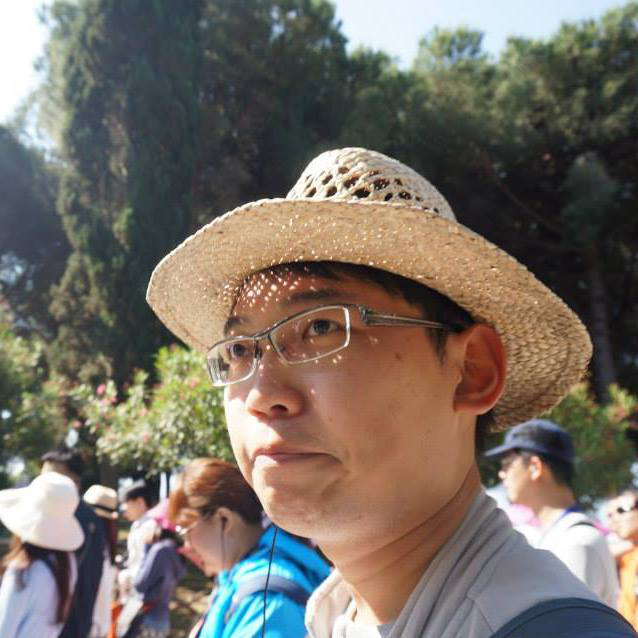
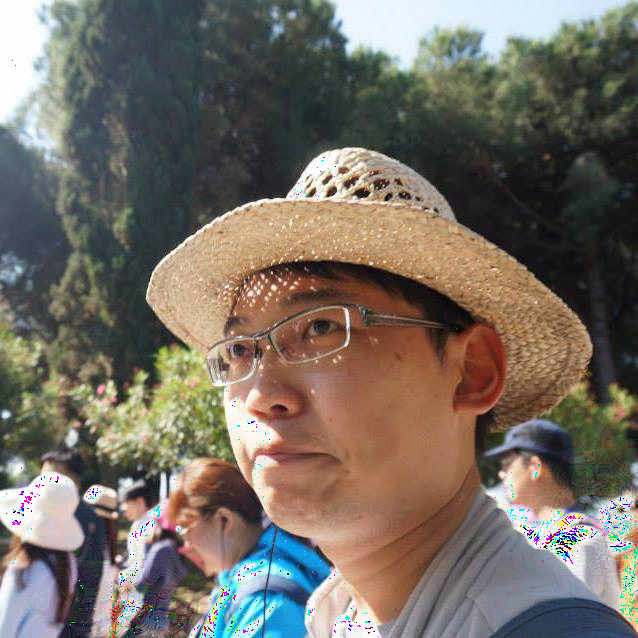
5

diff --git a/GA001.py b/GA001.py
@@ -18,7 +18,10 @@ import torchvision.transforms as T
 from torchvision import models
 
 
-lr = 1e-1
+lr = 1e0
+epoch = 10000000
+batch = 100
+
 device = 'cuda:0'
 
 _GRAY = (218, 227, 218)
@@ -76,14 +79,21 @@ def show_pic(image,boxs,labels,n=0):
         display_image = vis_class(display_image, bbox, _COCO_INSTANCE_CATEGORY_NAMES[labels[i]])
     
     plt.figure(figsize=(10, 10),dpi=200)
-    plt.imshow(display_image)
     plt.xticks([])
     plt.yticks([])
-    plt.savefig(f'./results/test{n}.png', bbox_inches="tight")
+    plt.imsave(f'./results/test{n}.png',display_image)
+
+    # plt.savefig(f'./results/test{n}.png', bbox_inches="tight")
     
 transform = T.ToTensor()
-image_path = './results/AA_Resnet.png'
-image = Image.open(image_path).convert("RGB")
+
+try:
+    image_path = './results/AA_Resnet.png'
+    image = Image.open(image_path).convert("RGB")
+except:
+    image_path = './data/AA_Resnet.jpg'
+    print(' *** use origin picture *** ')
+    image = Image.open(image_path).convert("RGB")   
 image_tensor = transform(image)
 image_tensor = image_tensor.unsqueeze(0)
 print(image_tensor.size())
@@ -96,26 +106,27 @@ detector.to(device)
 image_tensor = image_tensor.to(device)
 image_tensor.requires_grad = True
 
-for i in range(3):
+for i in range(epoch):
     detector.eval()
     
     results = detector(image_tensor)
-    
-    target_labels = results[0]['labels'][results[0]['labels']>1]
-    target_boxes = results[0]['boxes'][results[0]['labels']>1]
-    target_masks = results[0]['masks'][results[0]['labels']>1]
-    
-    target = [{'boxes':target_boxes,
-               'labels':target_labels,
-               'masks':target_masks
-               }]
+    if i ==0 or i%batch==0:
+        with torch.no_grad():
+            target_labels = results[0]['labels'][results[0]['labels']>1]
+            target_boxes = results[0]['boxes'][results[0]['labels']>1]
+            target_masks = results[0]['masks'][results[0]['labels']>1]
+            
+            target = [{'boxes':target_boxes,
+                       'labels':target_labels,
+                       'masks':target_masks
+                       }]
     
     # pic = image_tensor.permute(0,2,3,1).detach().numpy()[0]
     # reT = T.Compose([T.Normalize(mean=[0., 0., 0.], std=[1/0.229, 1/0.224, 1/0.225]),
     #                           T.Normalize(mean=[-0.485, -0.456, -0.406], std=[1., 1., 1.]),
     #                           T.ToPILImage()])
     
-    if i%10000000==0:
+    if i%batch==0:
         pic = image_tensor[0].cpu()
         reT = T.Compose([T.ToPILImage()])
     
@@ -129,16 +140,15 @@ for i in range(3):
     
     # calculate the grading
     detector.train()
-    # zero_grad
     
     loss = detector(image_tensor,target)
     
-    total_loss = 0
+    total_loss = loss['loss_classifier']+loss['loss_mask']+loss['loss_box_reg']
     
-    for l in loss.values():
-        total_loss += l
     total_loss.backward()
     
     with torch.no_grad():
         image_tensor -= lr*image_tensor.grad
 
+    # zero_grad
+    image_tensor.grad.zero_()
